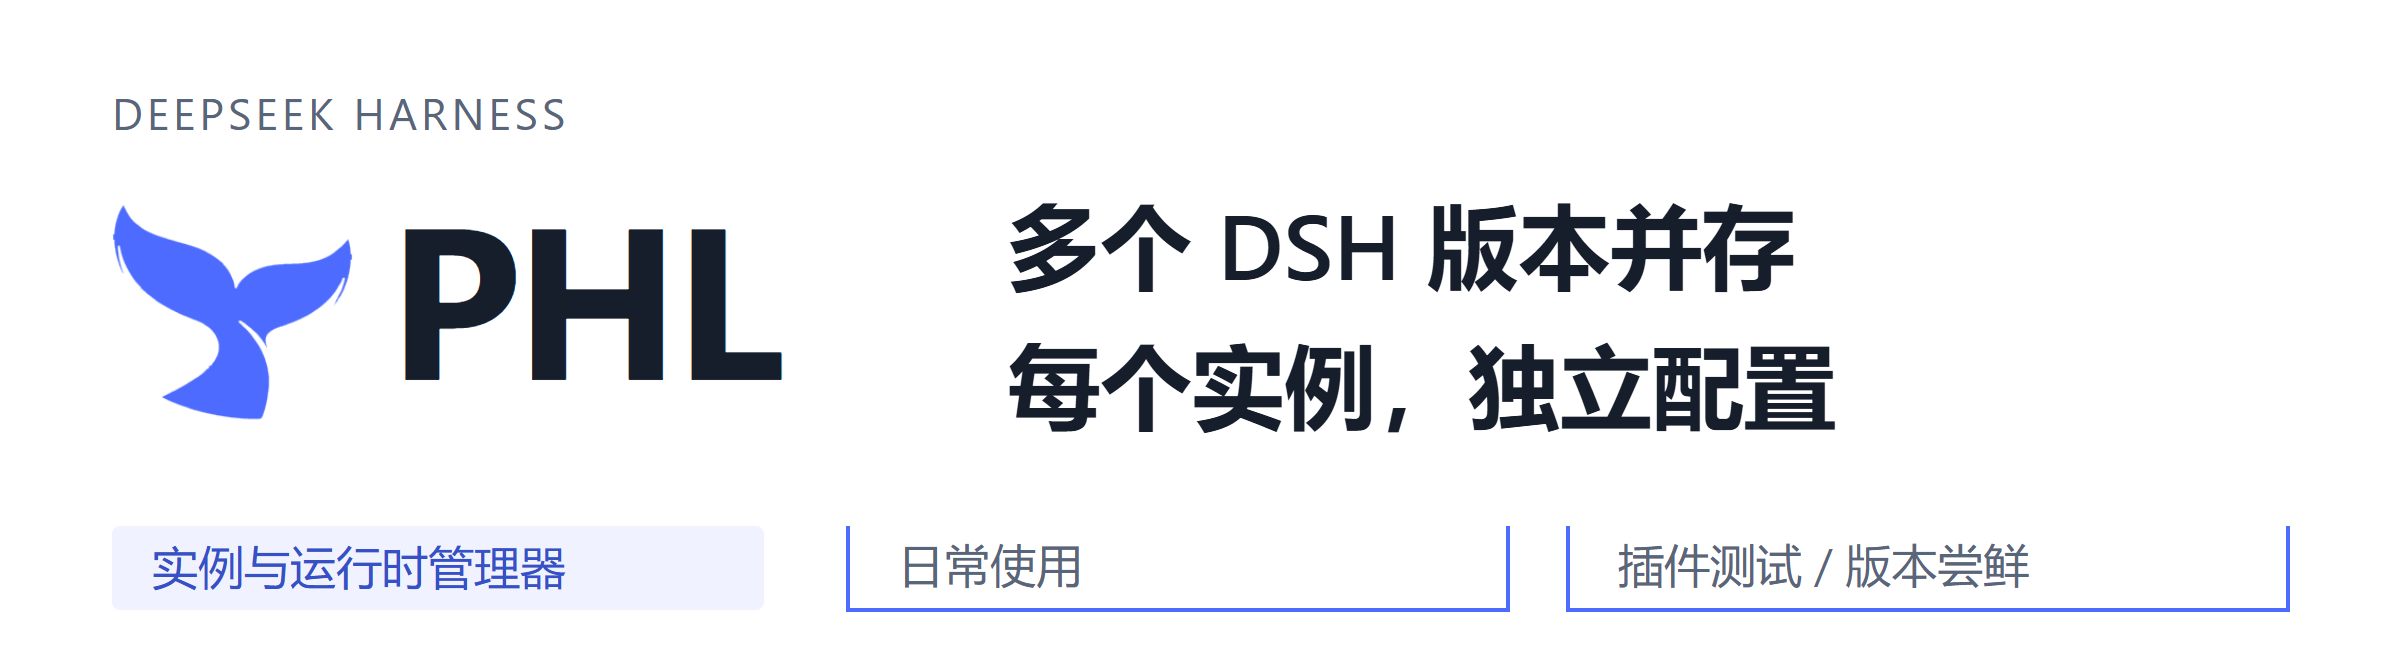
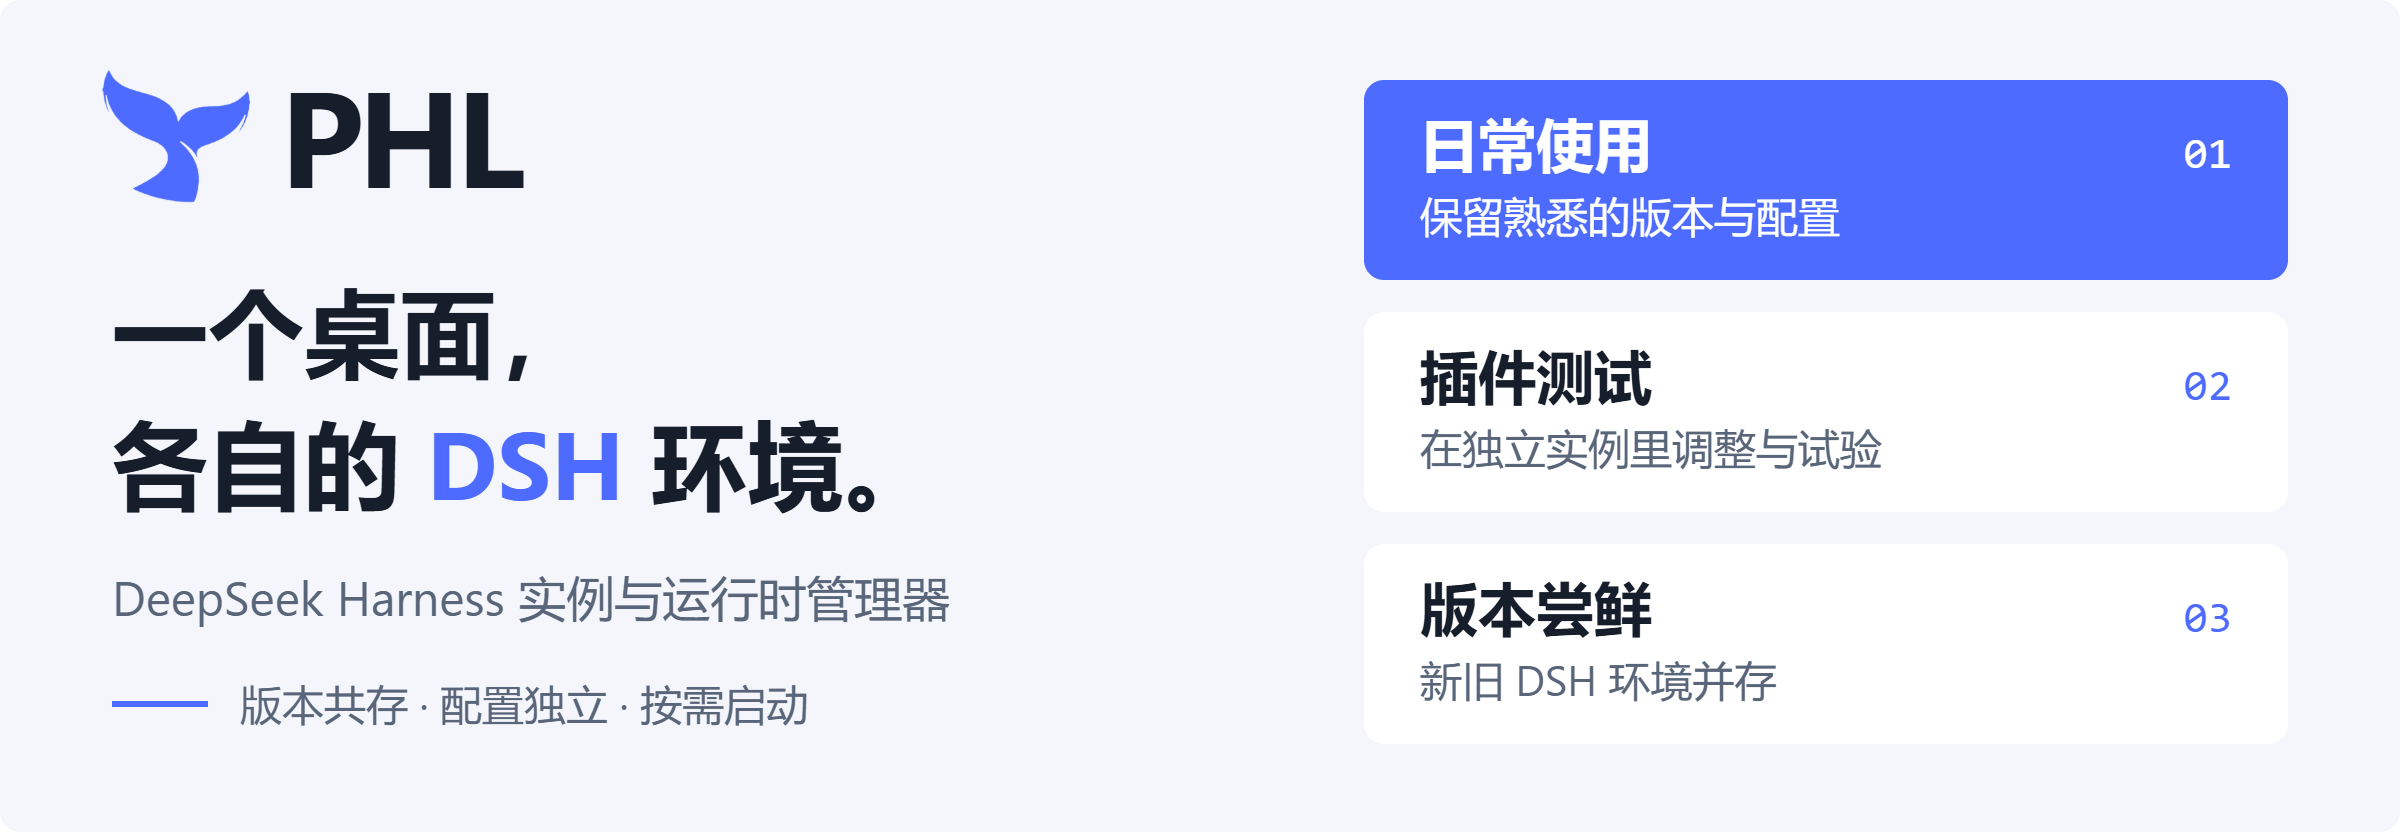
docs: refresh README visuals and getting-started guide

diff --git a/README.md b/README.md
@@ -1,64 +1,81 @@
-# PHL · DeepSeek Harness 实例与运行时管理器
-
 <p align="center">
-  <img src="./assets/readme/hero.png" width="100%" alt="PHL 鲸鱼尾鳍 Logo：多个 DSH 版本并存，每个实例独立配置。Windows 桌面应用。">
+  <img src="./assets/readme/hero.png" width="100%" alt="PHL — DeepSeek Harness 实例与运行时管理器。一个桌面，各自的 DSH 环境：日常使用、插件测试、版本尝鲜。">
 </p>
 
-在同一台机器上，为日常使用、插件测试和版本尝鲜分别创建 DSH 实例。**每个实例选择自己的 DSH 版本与 Node 运行时，配置、插件和工作目录彼此隔离。**
-
-[下载安装](https://github.com/A7m0spHere/dsh-phl/releases) · [首次运行](#首次运行) · [从源码构建](#从源码构建) · [文档](#文档与反馈) · [问题反馈](https://github.com/A7m0spHere/dsh-phl/issues)
-
 <p align="center">
-  <img src="./assets/readme/app.png" width="100%" alt="PHL 桌面端真实截图：版本页展示已安装与可下载的 DSH 版本、发布日期及更新说明；顶部可切换实例、插件、API 和运行时。">
+  <strong>Windows 10 / 11 · x64</strong> &nbsp; / &nbsp; Alpha 预览 &nbsp; / &nbsp; MIT 开源
 </p>
 
-*桌面端「版本」页实拍。PHL 使用 Tauri 2 + Rust，下载、磁盘读写与进程管理均已接入真实后端。*
+<p align="center">
+  <a href="https://github.com/A7m0spHere/dsh-phl/releases"><strong>下载安装 →</strong></a> &nbsp; · &nbsp;
+  <a href="#首次运行">首次运行</a> &nbsp; · &nbsp;
+  <a href="#从源码构建">源码构建</a> &nbsp; · &nbsp;
+  <a href="#文档与反馈">文档与反馈</a>
+</p>
+
+# PHL
+
+**在同一台机器上管理多个 DeepSeek Harness（DSH）环境。** 为日常使用、插件测试和版本尝鲜分别创建实例，各自选择 DSH 版本与 Node 运行时，分别保存配置、插件和工作目录。
+
+PHL 是基于 Tauri 2 + Rust 的桌面应用。版本下载、实例管理、磁盘读写与进程启动均已接入真实后端；项目独立开发，与 DeepSeek 官方无隶属关系。
+
+<p align="center">
+  <img src="./assets/readme/app.png" width="100%" alt="PHL 桌面端版本页实拍：左侧按安装状态筛选，右侧展示 DSH 版本与更新说明，顶部可进入实例、插件、API 和运行时管理。">
+</p>
+
+*桌面端「版本」页实拍。多个版本可同时安装，由实例分别选择。*
+
+## 一个实例，一套环境
+
+| 使用场景 | 在 PHL 中怎么做 |
+|---|---|
+| **日常与测试分开** | 创建或克隆实例，分别绑定 DSH 版本、Node 运行时和插件 |
+| **管理模型与 API** | 维护全局供应商与模型配置；实例可继承全局、自选供应商，或不托管 |
+| **下载与启动** | DSH / Node 下载支持校验、进度与取消；启动时检测端口，遇到问题查看日志 |
+| **修改前备份** | 保存实例快照，需要时回滚；也可通过 Bundle 导出配置清单 |
+| **接入与迁移** | 发现本机 DSH、复制对话，通过 `.phlpack` 导入或导出整合包 |
+| **日常维护** | 查看磁盘占用、清理缓存与孤立目录，诊断问题或迁移数据目录 |
 
 ## 下载与安装
 
-面向 **Windows 10/11 x64**，目前为 **alpha 预览**，界面与数据格式仍可能变化。PHL 为独立项目，与 DeepSeek 官方无隶属关系。
+目前提供 **Windows 10/11 x64 的 alpha 预览版**，界面与数据格式仍可能调整。macOS / Linux 尚未完成真机验收。
 
-1. 打开 [Releases](https://github.com/A7m0spHere/dsh-phl/releases)，从最新预览版的 **Assets** 下载 `PHL_<version>_x64-setup.exe` 及同名 `.sha256` 文件。
-2. 在下载目录运行下方命令，对照 `.sha256` 核对文件，再运行安装程序。
-3. 从开始菜单打开 **PHL**，按下方步骤创建第一个实例。
+1. 打开 **[Releases 下载页](https://github.com/A7m0spHere/dsh-phl/releases)**，在所选预览版的 **Assets** 中下载 `PHL_<version>_x64-setup.exe` 和同名 `.sha256` 文件。
+2. 在下载目录执行下方命令，与 `.sha256` 中的值核对一致后运行安装程序。
+3. 从开始菜单打开 **PHL**，创建第一个实例。
 
 ```powershell
 Get-FileHash .\PHL_*_x64-setup.exe -Algorithm SHA256
 ```
 
-安装包尚未做 Windows 代码签名，首次下载或运行可能出现 SmartScreen 提示，处理步骤见[安装说明](./docs/install-note.md)。应用依赖 WebView2；若系统缺失，安装器会按 [Tauri 默认方式](https://v2.tauri.app/distribute/windows-installer/#webview2-installation-options)联网下载并安装。
+安装包尚未做 Windows 代码签名，首次下载或运行可能出现 SmartScreen 提示，处理方法见[安装说明](./docs/install-note.md)。桌面窗口依赖 WebView2，系统缺失时安装器会联网安装。
 
-**应用内更新：** alpha.3 起可在「设置 → 关于」检查更新、下载并安装。alpha.2 及更早版本需先手动安装带更新功能的版本，详见[更新说明](./docs/auto-update.md)。
+已有 alpha.3 或更新版本，可在「**设置 → 关于**」检查更新、下载并安装；更早版本需手动安装一次，详见[应用内更新](./docs/auto-update.md)。
 
 ## 首次运行
 
-1. **准备 DSH 版本** — 在「版本」页下载所需版本。
-2. **准备运行时** — 在「运行时」页下载 Node，或使用已检测到的系统 Node。
-3. **创建实例** — 填写名称，选择 DSH 版本、运行时与端口，完成向导。
-4. **启动并打开 WebUI** — 在实例页点击「启动」，等待端口就绪；需要插件时，在「插件」页选择目标实例后安装。
+1. **下载 DSH**：在「版本」页选择需要的版本。
+2. **选择 Node**：在「运行时」页下载运行时，或使用检测到的系统 Node。
+3. **创建实例**：填写名称，选择 DSH 版本、运行时与端口。
+4. **配置 API**：需要由 PHL 管理模型时，在「API」页配置供应商与模型，再在实例中选择配置来源并同步。
+5. **启动使用**：在实例页点击「启动」，等待就绪后打开 WebUI。需要插件时，在「插件」页选定目标实例后安装。
 
-已有本机 DSH 环境，可以使用[本机发现与接入](./docs/p0-local-dsh-adoption.md)，按向导选择接入方式及需要迁移的对话。
+已经有本机 DSH？从[本机发现与接入](./docs/p0-local-dsh-adoption.md)开始，按向导选择接入方式和需要迁移的对话。
 
-## 围绕实例管理环境
-
-| 你要做的事 | PHL 提供的能力 |
-|---|---|
-| 同时保留多个环境 | 创建、克隆与管理实例；各自绑定 DSH 版本和 Runtime，配置与插件独立保存 |
-| 下载版本与安装插件 | DSH / Node 下载、完整性校验、进度与取消；插件安装到选定实例 |
-| 启动并排查问题 | 端口探测与自动分配、启动日志、崩溃反馈；停止时终止进程树 |
-| 修改前留一份备份 | 创建、回滚与删除快照；快照保存实例的 `dsh-home`，不包含 workspace、日志或版本绑定 |
-| 接入与迁移环境 | 本机 DSH 发现、对话复制、`.phlpack` 导入导出，以及轻量 Bundle 配置清单 |
-| 整理与维护 | 磁盘占用统计、孤立目录与缓存清理、诊断、数据目录迁移和任务中心 |
-
-**Bundle 的范围：** JSON 清单记录实例配置与插件信息，不包含插件文件，也不导出凭据值及机器本地环境变量；导入后需重新安装插件并配置凭据。对话与 `.phlpack` 的迁移范围见[迁移说明](./docs/p1-session-pack.md)。
+常用快捷键：`Ctrl+K` 快速跳转 · `Ctrl+,` 打开设置 · `Esc` 返回。完整清单见「设置 → 快捷键」。
 
 ## 隔离如何工作
 
+**共享程序文件，分别保存实例状态。** DSH 版本与 Node 运行时集中存放，实例按需引用；每个受管实例拥有自己的 `DSH_HOME`、配置、插件、工作目录和端口。
+
 <p align="center">
-  <img src="./assets/readme/how-it-works.svg" width="100%" alt="隔离示意：DSH 版本与 Node 文件集中存放，由不同实例引用。实例 A 和 B 各有独立的 DSH_HOME、配置、插件与端口，分别启动并打开 WebUI。">
+  <img src="./assets/readme/how-it-works.svg" width="100%" alt="受管实例隔离示意：共享的 DSH 版本库和 Node 运行时库供实例按需引用。日常实例与测试实例各自保存 DSH_HOME、配置、插件和工作目录，通过不同端口打开各自的 WebUI。">
 </p>
 
-**共享程序文件，分别保存实例状态。** DSH 与 Node 存放在版本库和运行时库中，实例按 ID 引用；配置与插件则放在各自的 `dsh-home`。此处的隔离指环境与数据目录分离，不是操作系统级安全沙箱。
+这种隔离指环境与数据目录分离，不是操作系统级安全沙箱。启动时，PHL 注入对应实例的 `DSH_HOME`，用所选 Node 执行 `dsh web --port <端口> --no-open`，固定使用 `web` profile。
+
+<details>
+<summary>查看数据目录与备份范围</summary>
 
 ```text
 <数据目录>/
@@ -72,22 +89,17 @@ Get-FileHash .\PHL_*_x64-setup.exe -Algorithm SHA256
     └── logs/                   启动日志
 ```
 
-启动时，PHL 注入实例自己的 `DSH_HOME`，使用所选运行时执行 `dsh web --port <端口>`，固定使用 `web` profile。端口就绪后打开 WebUI；关闭应用时会确认仍在运行的实例。
+- **快照**：保存实例的 `dsh-home`，不包含 workspace、日志或版本绑定。
+- **Bundle**：JSON 配置清单，记录实例配置与插件信息；不含插件文件、凭据值和机器本地环境变量，导入后需重新安装插件并配置凭据。
+- **`.phlpack`**：整合包，可按导出选项携带插件文件与对话；具体内容和迁移范围见[对话与环境迁移](./docs/p1-session-pack.md)。
+
+</details>
 
 ## 从源码构建
 
-前端使用 **React 18 / TypeScript / Vite 6**，样式与交互由 Tailwind CSS、Motion 和 Zustand 提供。页面统一经过 Repository 接口访问数据，入口在 [`src/services/index.ts`](./src/services/index.ts)。
+前端使用 **React 18 · TypeScript · Vite 6**，桌面端使用 **Tauri 2 · Rust**。
 
-桌面端构建环境：
-
-| 依赖 | 要求 |
-|---|---|
-| Node.js | 与项目 CI 一致使用 Node 22，附带 npm |
-| Rust | stable，Windows 使用 MSVC 工具链 |
-| Visual Studio C++ Build Tools | 安装「使用 C++ 的桌面开发」工作负载 |
-| WebView2 | 桌面窗口运行所需 |
-
-克隆仓库后执行：
+Windows 开发需准备 **Node.js 22（与 CI 一致）、Rust stable / MSVC、Visual Studio C++ Build Tools 的「使用 C++ 的桌面开发」工作负载，以及 WebView2**。
 
 ```bash
 git clone https://github.com/A7m0spHere/dsh-phl.git
@@ -96,22 +108,23 @@ npm ci
 npm run app:dev
 ```
 
-也可双击 [`run-dev.cmd`](./run-dev.cmd) 检查环境并启动；首次编译 Rust 会花费一些时间。
+也可双击 [`run-dev.cmd`](./run-dev.cmd) 检查环境并启动；首次编译 Rust 需要一些时间。
 
 | 命令 | 用途 |
 |---|---|
-| `npm run dev` | 浏览器 UI 预览，使用 Mock 数据，不执行真实桌面操作 |
-| `npm run app:dev` | 启动 Tauri 桌面应用，连接真实 Rust 后端 |
+| `npm run dev` | 浏览器 UI 预览，使用 Mock 数据 |
+| `npm run app:dev` | 启动桌面应用，连接真实 Rust 后端 |
 | `npm run app:build` | 构建 Windows 应用与 NSIS 安装包 |
 | `npm run icon` | 从仓库内母版生成应用图标 |
 
-安装包输出到 `src-tauri/target/release/bundle/nsis/`。也可双击 [`build-app.cmd`](./build-app.cmd) 构建并打开产物目录。
+安装包输出到 `src-tauri/target/release/bundle/nsis/`，也可双击 [`build-app.cmd`](./build-app.cmd) 构建并打开产物目录。浏览器预览不执行真实桌面操作。
 
 <details>
 <summary>开发检查与代码导航</summary>
 
 ```bash
 npm run typecheck
+npm run check:size
 npm run bridge:check
 npm test
 npm run build
@@ -128,28 +141,23 @@ cargo test --manifest-path src-tauri/Cargo.toml --workspace
 | [`src-tauri/src/`](./src-tauri/src/) | 下载、实例、插件、运行时、进程与磁盘操作 |
 | [`src-tauri/crates/`](./src-tauri/crates/) | 共用 Pack Core 与 `phl-pack` CLI |
 
-开发约定以 [`AGENTS.md`](./AGENTS.md) 为准；完整检查流程见 [CI 配置](./.github/workflows/ci.yml)。
+页面通过 Repository 接口访问数据，入口见 [`src/services/index.ts`](./src/services/index.ts)。开发约定以 [`AGENTS.md`](./AGENTS.md) 为准，完整检查流程见 [CI 配置](./.github/workflows/ci.yml)。
 
 </details>
 
 ## 文档与反馈
 
-| 入口 | 内容 |
+| 你想了解 | 对应文档 |
 |---|---|
-| [发布记录](https://github.com/A7m0spHere/dsh-phl/releases) | 已发布版本、更新说明与安装包 |
-| [应用内更新](./docs/auto-update.md) | 检查更新、下载与安装方式 |
-| [本机 DSH 接入](./docs/p0-local-dsh-adoption.md) / [对话与环境迁移](./docs/p1-session-pack.md) | 接入方式、格式与迁移边界 |
-| [Pack Core、CLI 与导出 Skill](./docs/p2-pack-core-skill.md) | `.phlpack` 的复用与集成 |
-| [安全说明](./SECURITY.md) / [隐私说明](./docs/privacy.md) | 安全边界、漏洞报告与数据处理 |
+| 安装、版本与更新 | [安装说明](./docs/install-note.md) · [发布记录](https://github.com/A7m0spHere/dsh-phl/releases) · [应用内更新](./docs/auto-update.md) |
+| 接入已有环境、迁移对话 | [本机 DSH 接入](./docs/p0-local-dsh-adoption.md) · [对话与环境迁移](./docs/p1-session-pack.md) |
+| 集成整合包能力 | [Pack Core、CLI 与导出 Skill](./docs/p2-pack-core-skill.md) |
+| 安全与数据处理 | [安全说明](./SECURITY.md) · [隐私说明](./docs/privacy.md) |
 
-当前发布与验证重点为 Windows；macOS / Linux 尚未完成真机验收，PHL 内部受管的源码构建管线仍在规划中。
-
-常用快捷键：`Ctrl+K` 快速跳转，`Ctrl+,` 打开设置，`Esc` 返回。完整清单在「设置 → 快捷键」。
-
-遇到问题或有建议，请提交 [Issue](https://github.com/A7m0spHere/dsh-phl/issues)，附上 PHL 版本、复现步骤与相关日志（移除凭据后）。
+遇到问题或有建议，请[提交 Issue](https://github.com/A7m0spHere/dsh-phl/issues)，附上 PHL 版本、复现步骤与相关日志（移除凭据后）。
 
 ## 参考与许可
 
-PHL 在产品模型与交互上参考 PCL、Prism Launcher、DSHBox 等项目。实现遵守[代码来源边界](./AGENTS.md#代码来源边界必须遵守)：不复制、移植或机械改写其他 Launcher 的代码，不使用其专有视觉资产。鲸鱼尾鳍标识使用仓库内的独立母版，见[素材来源](./src-tauri/icons/master/PROVENANCE.md)。
+PHL 的产品模型与交互参考了 PCL、Prism Launcher、DSHBox。实现遵守[代码来源边界](./AGENTS.md#代码来源边界必须遵守)，不复制、移植或机械改写其他 Launcher 的代码，不使用其专有视觉资产。鲸鱼尾鳍标识来自仓库内的[独立母版](./src-tauri/icons/master/PROVENANCE.md)。
 
 [MIT](./LICENSE) © 2026 A7m0spHere · [第三方许可](./THIRD_PARTY_NOTICES.md)
